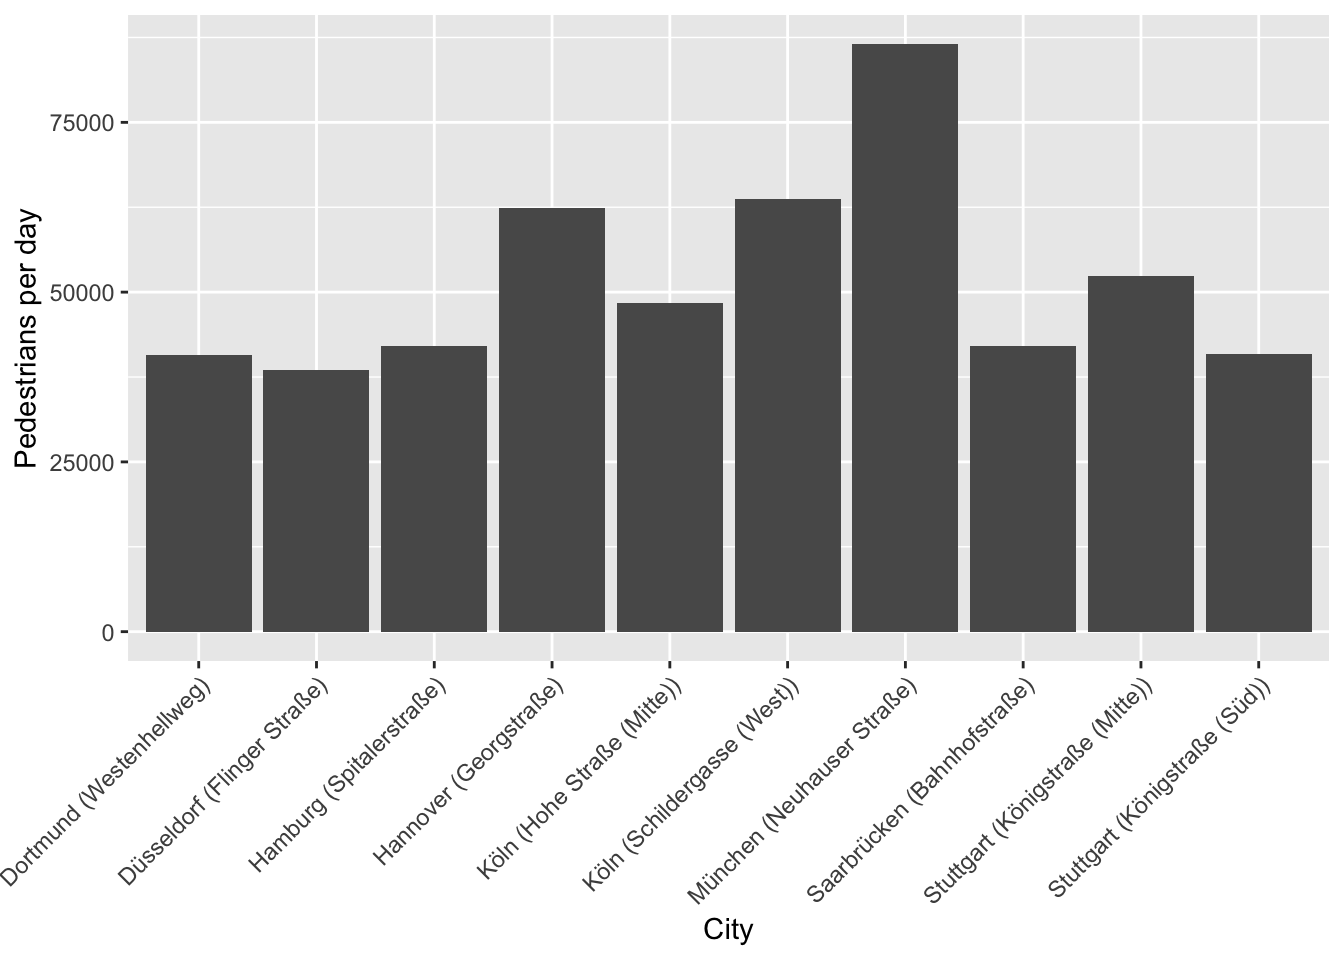
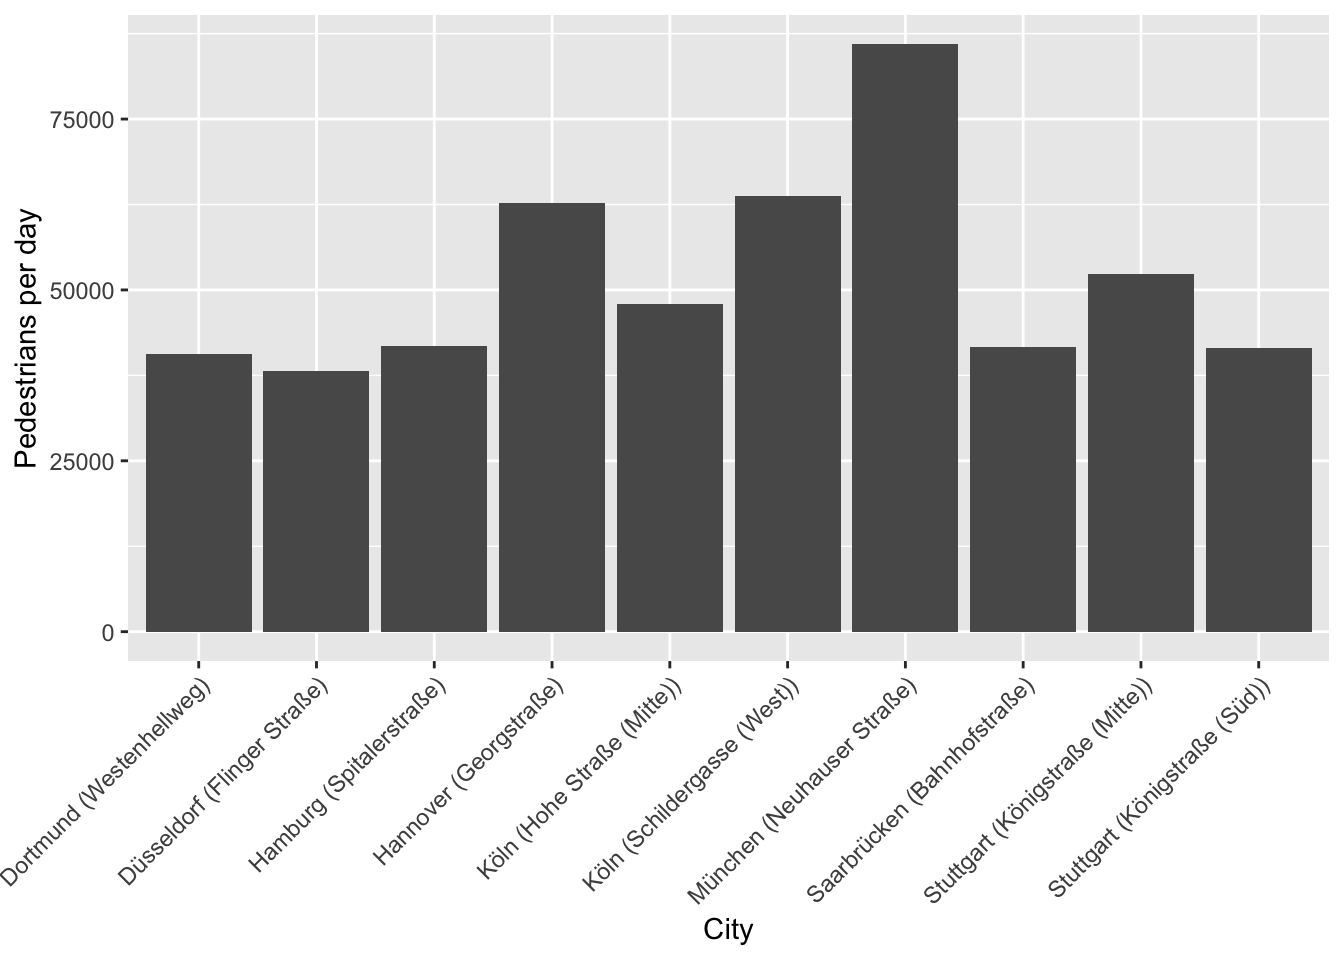
changed readme to render complete

diff --git a/README.md b/README.md
@@ -9,8 +9,8 @@ developed.](http://www.repostatus.org/badges/latest/active.svg)](http://www.repo
 
 ## Introduction
 
-[hystreet.com](https://hystreet.com) is a company records pedestrian counts at certain spots in
-german cities. After registering and requesting access to the API you can download the data for free from
+[hystreet](https://hystreet.com) is a company collecting pedestrains in
+german cities. After registering you can download the data for free from
 19 cities.
 
 ## Installation
@@ -109,13 +109,13 @@ counts
 
 <td style="text-align:right;">
 
-55
+62
 
 </td>
 
 <td style="text-align:right;">
 
-352970219
+406055184
 
 </td>
 
@@ -172,35 +172,13 @@ city
 
 <td style="text-align:right;">
 
-53
+111
 
 </td>
 
 <td style="text-align:left;">
 
-Schadowstraße (West)
-
-</td>
-
-<td style="text-align:left;">
-
-Düsseldorf
-
-</td>
-
-</tr>
-
-<tr>
-
-<td style="text-align:right;">
-
-114
-
-</td>
-
-<td style="text-align:left;">
-
-Herrenteichsstraße (Ost)
+Jürgensort
 
 </td>
 
@@ -216,107 +194,19 @@ Osnabrück
 
 <td style="text-align:right;">
 
-94
+102
 
 </td>
 
 <td style="text-align:left;">
 
-Kurfürstendamm Südseite (Ost)
+Bürgermeister-Fischer-Straße
 
 </td>
 
 <td style="text-align:left;">
 
-Berlin
-
-</td>
-
-</tr>
-
-<tr>
-
-<td style="text-align:right;">
-
-103
-
-</td>
-
-<td style="text-align:left;">
-
-Schuchardstraße
-
-</td>
-
-<td style="text-align:left;">
-
-Darmstadt
-
-</td>
-
-</tr>
-
-<tr>
-
-<td style="text-align:right;">
-
-108
-
-</td>
-
-<td style="text-align:left;">
-
-Große Straße (Mitte)
-
-</td>
-
-<td style="text-align:left;">
-
-Osnabrück
-
-</td>
-
-</tr>
-
-<tr>
-
-<td style="text-align:right;">
-
-68
-
-</td>
-
-<td style="text-align:left;">
-
-Petersstraße
-
-</td>
-
-<td style="text-align:left;">
-
-Leipzig
-
-</td>
-
-</tr>
-
-<tr>
-
-<td style="text-align:right;">
-
-95
-
-</td>
-
-<td style="text-align:left;">
-
-Planken (Mitte)
-
-</td>
-
-<td style="text-align:left;">
-
-Mannheim
+Augsburg
 
 </td>
 
@@ -348,19 +238,19 @@ Osnabrück
 
 <td style="text-align:right;">
 
-54
+96
 
 </td>
 
 <td style="text-align:left;">
 
-Schadowstraße (Ost)
+Planken (West)
 
 </td>
 
 <td style="text-align:left;">
 
-Düsseldorf
+Mannheim
 
 </td>
 
@@ -370,19 +260,129 @@ Düsseldorf
 
 <td style="text-align:right;">
 
-109
+72
 
 </td>
 
 <td style="text-align:left;">
 
-Krahnstraße (Mitte, Altstadt)
+Stadthausstraße
 
 </td>
 
 <td style="text-align:left;">
 
-Osnabrück
+Mainz
+
+</td>
+
+</tr>
+
+<tr>
+
+<td style="text-align:right;">
+
+104
+
+</td>
+
+<td style="text-align:left;">
+
+Ernst-Ludwig-Straße
+
+</td>
+
+<td style="text-align:left;">
+
+Darmstadt
+
+</td>
+
+</tr>
+
+<tr>
+
+<td style="text-align:right;">
+
+47
+
+</td>
+
+<td style="text-align:left;">
+
+Schildergasse (West)
+
+</td>
+
+<td style="text-align:left;">
+
+Köln
+
+</td>
+
+</tr>
+
+<tr>
+
+<td style="text-align:right;">
+
+84
+
+</td>
+
+<td style="text-align:left;">
+
+Rathausgasse
+
+</td>
+
+<td style="text-align:left;">
+
+Freiburg
+
+</td>
+
+</tr>
+
+<tr>
+
+<td style="text-align:right;">
+
+90
+
+</td>
+
+<td style="text-align:left;">
+
+Karolinenstraße
+
+</td>
+
+<td style="text-align:left;">
+
+Nürnberg
+
+</td>
+
+</tr>
+
+<tr>
+
+<td style="text-align:right;">
+
+126
+
+</td>
+
+<td style="text-align:left;">
+
+Neue Straße
+
+</td>
+
+<td style="text-align:left;">
+
+Braunschweig
 
 </td>
 
@@ -394,7 +394,7 @@ Osnabrück
 
 ### Request data from a specific station
 
-The (properly) most interesting function is
+The (probably) most interesting function is
 ‘get\_hystreet\_station\_data()’. With the hystreetID it is possible
 to request a specific station. By default, all the data from the current
 day are received. With the ‘query’ argument it is possible to set the
@@ -443,13 +443,13 @@ Now let´s compare different stations:
 data_73 <- get_hystreet_station_data(
     hystreetId = 73, 
     query = list(from = "01-01-2019", to = "31-01-2019", resolution = "day"))$measurements %>% 
-  select(1:2) %>% 
+  select(pedestrians_count, timestamp) %>% 
   mutate(station = 73)
 
 data_74 <- get_hystreet_station_data(
     hystreetId = 74, 
     query = list(from = "01-01-2019", to = "31-01-2019", resolution = "day"))$measurements %>% 
-    select(1:2) %>% 
+    select(pedestrians_count, timestamp) %>% 
   mutate(station = 74)
 
 data <- bind_rows(data_73, data_74)
@@ -497,11 +497,11 @@ ratio %>%
   top_n(5, ratio) %>% 
   arrange(desc(ratio))
 ##   id                         station    ratio
-## 1 73      München (Neuhauser Straße) 86538.62
-## 2 47     Köln (Schildergasse (West)) 63698.54
-## 3 63          Hannover (Georgstraße) 62319.37
-## 4 77 Stuttgart (Königstraße (Mitte)) 52406.47
-## 5 48      Köln (Hohe Straße (Mitte)) 48382.38
+## 1 73      München (Neuhauser Straße) 85981.88
+## 2 47     Köln (Schildergasse (West)) 63687.52
+## 3 63          Hannover (Georgstraße) 62750.49
+## 4 77 Stuttgart (Königstraße (Mitte)) 52268.06
+## 5 48      Köln (Hohe Straße (Mitte)) 48001.71
 ```
 
 Now let´s visualise the top 10 cities:
